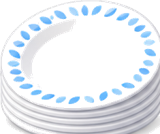
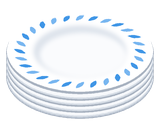
Add files via upload

diff --git a/src/lib/version.ts b/src/lib/version.ts
@@ -4,7 +4,7 @@
  * quickest tell for a partial upload: a missing file usually shows up as a
  * missing migration.
  */
-export const APP_VERSION = "0.605.0";
+export const APP_VERSION = "0.605.1";
 
 export const MIGRATIONS = [
   "0_init",
@@ -145,6 +145,10 @@ export const MIGRATIONS = [
 export type Change = { version: string; summary: string[] };
 
 export const CHANGES: Change[] = [
+  {
+    version: "0.605.1",
+    summary: ["The paper plates picture on the grocery list is no longer cut off at the bottom."],
+  },
   {
     version: "0.605.0",
     summary: ["Change your own password from your profile page (and in the app's Settings)."],

diff --git a/DECISIONS.md b/DECISIONS.md
@@ -1,5 +1,17 @@
 # Decisions
 
+## 2026-10 — Paper plates picture redrawn (v0.605.1 / app 0.413.1)
+
+`kairos:paper-plates` was one of the pictures sliced with the grid cell
+instead of the object, so the stack ran off the bottom (and both sides) of
+its canvas; the missing pixels were never in the file, so it was redrawn
+rather than repaired: a stack of five white plates with a blue leaf rim, drawn
+at 4x and scaled down to the old 160x134 so list rows don't shift. A
+hard-opaque-edge scan of all pictures flagged 35 others; looked at side by
+side, every one is a whole object whose flat side touches its box (cans,
+trays, bottle caps), not a cut. `air-freshener` and the legacy `ic:sorbet`
+square are still the ones to regenerate.
+
 ## 2026-10 — Change your own password (v0.605.0 / app 0.413.0)
 
 `changeOwnPassword` in `src/lib/accounts.ts` is the one rule for the web

diff --git a/ROADMAP.md b/ROADMAP.md
@@ -1692,7 +1692,7 @@ the fairness engine above as the quiet fuel. No one is ranked against anyone.
 
 ## Known-good baselines (end of this run)
 
-- Web APP_VERSION 0.605.0 (migrations through 127_marine_corps_birthday).
-- App versionName 0.413.0 / versionCode 474 / CLIENT_BUILD 474.
+- Web APP_VERSION 0.605.1 (migrations through 127_marine_corps_birthday).
+- App versionName 0.413.1 / versionCode 475 / CLIENT_BUILD 475.
 - ice-time 0.1.1 (no Extra Parameters needed on Unraid).
 - Collector: deployed and running; Xbox totals come from real game sessions.
